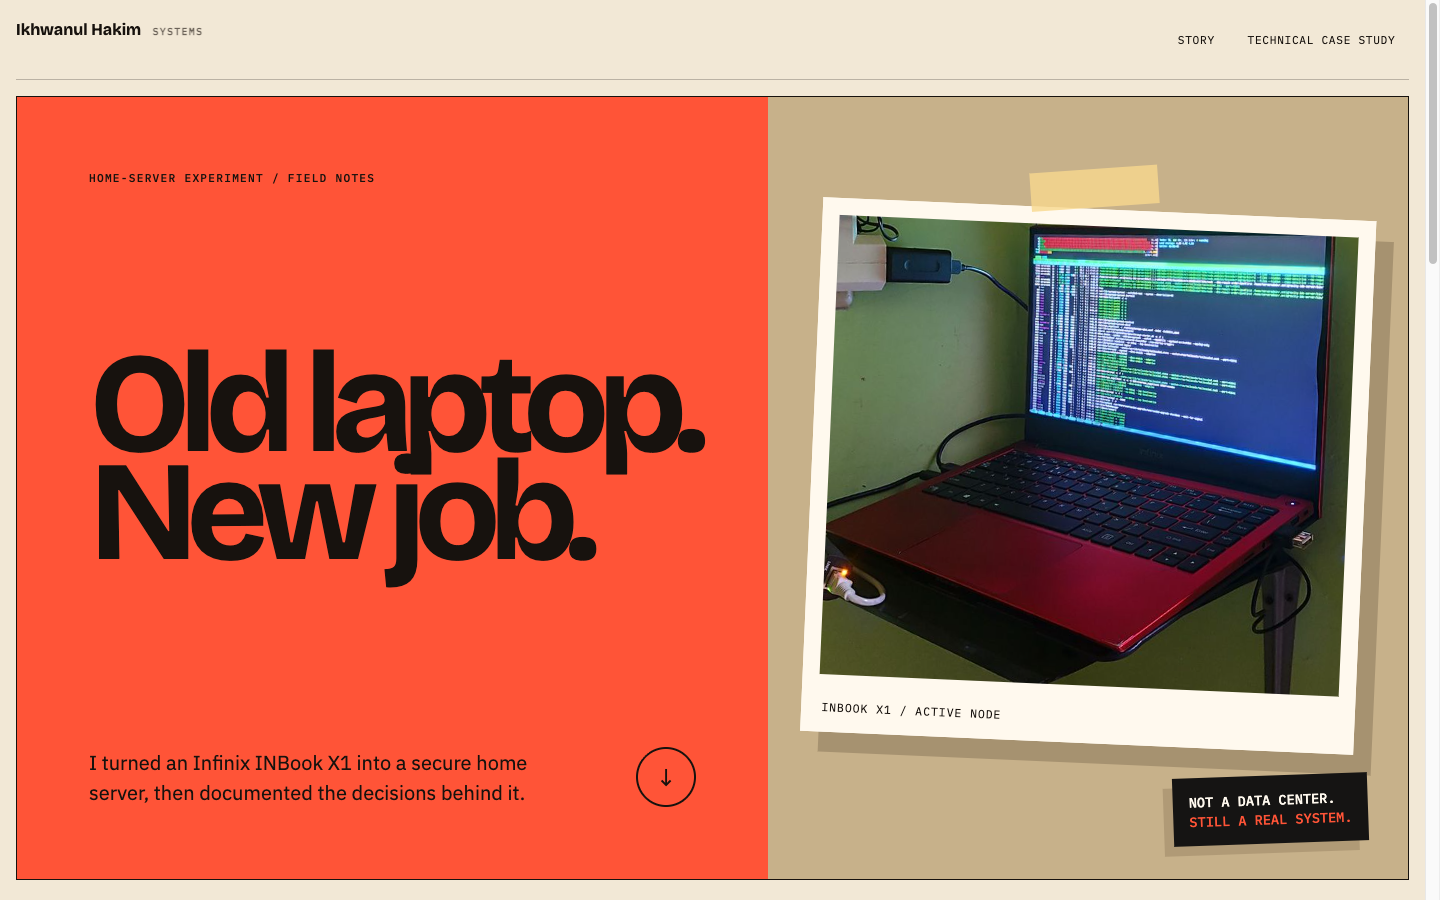
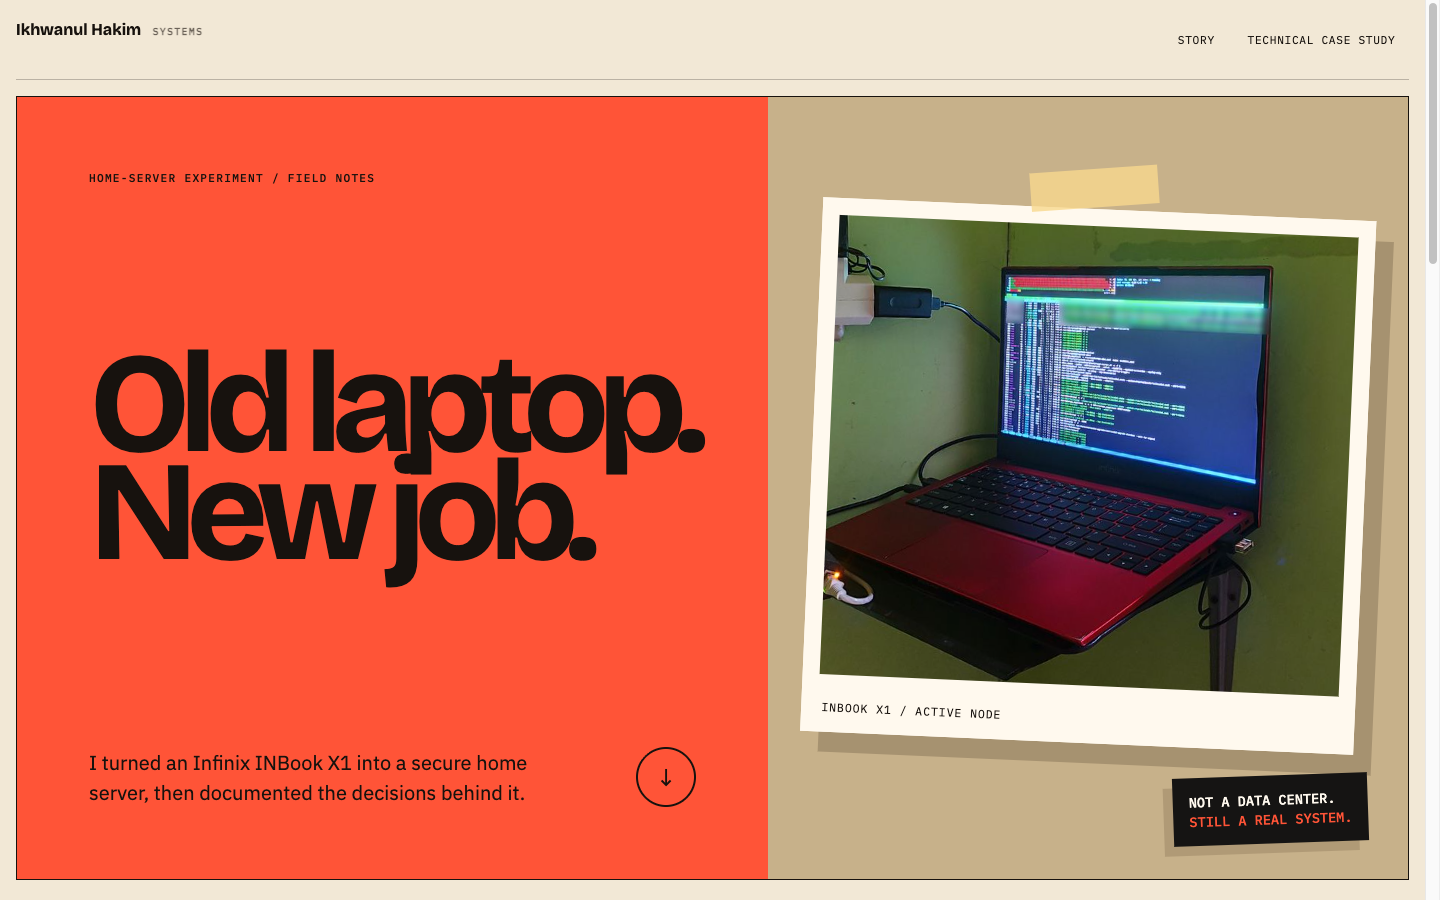
docs: note the screen redaction and refresh the screenshot

Changed region(s): [[0.5625, 0.2178, 0.9375, 0.7778], [0.6562, 0.6533, 0.7188, 0.6844], [0.6562, 0.7156, 0.6875, 0.7467]]

diff --git a/README.md b/README.md
@@ -96,7 +96,7 @@ flowchart LR
 There is no port forwarding and no public IP. The tunnel dials outward from the server, so nothing at home has to accept an inbound connection. Administration uses a separate private path and never travels this one.
 
 > [!NOTE]
-> This repository is public on purpose and holds no infrastructure detail: no addresses, hardware identifiers, account names, private hostnames, credentials, or keys. `tests/smoke.sh` scans every file for those patterns and fails when one appears. The photograph carries no location or device metadata.
+> This repository is public on purpose and holds no infrastructure detail: no addresses, hardware identifiers, account names, private hostnames, credentials, or keys. `tests/smoke.sh` scans every file for those patterns and fails when one appears. The photograph carries no location or device metadata, and the account name on the laptop screen is blurred.
 
 ## Colour and type
 
